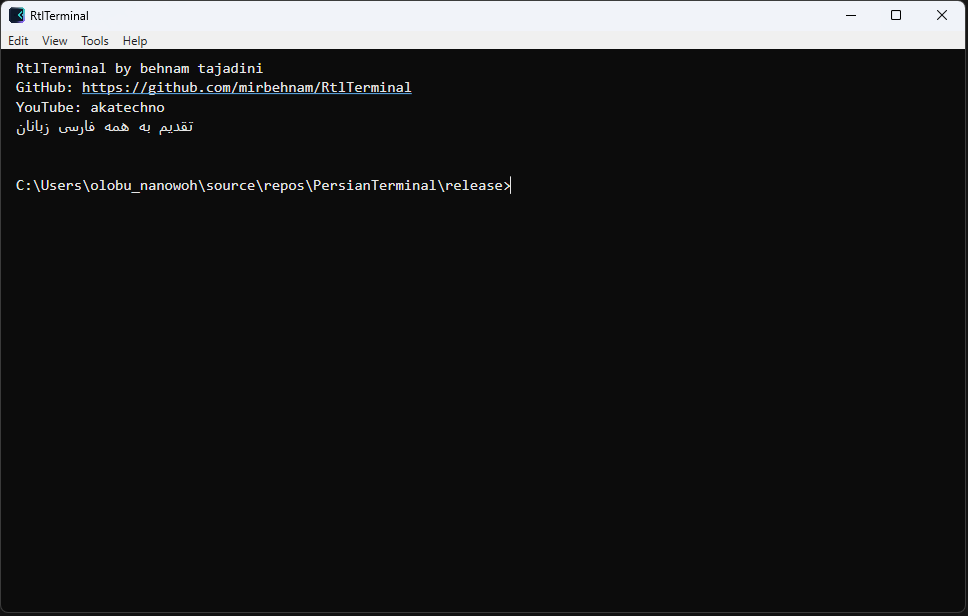
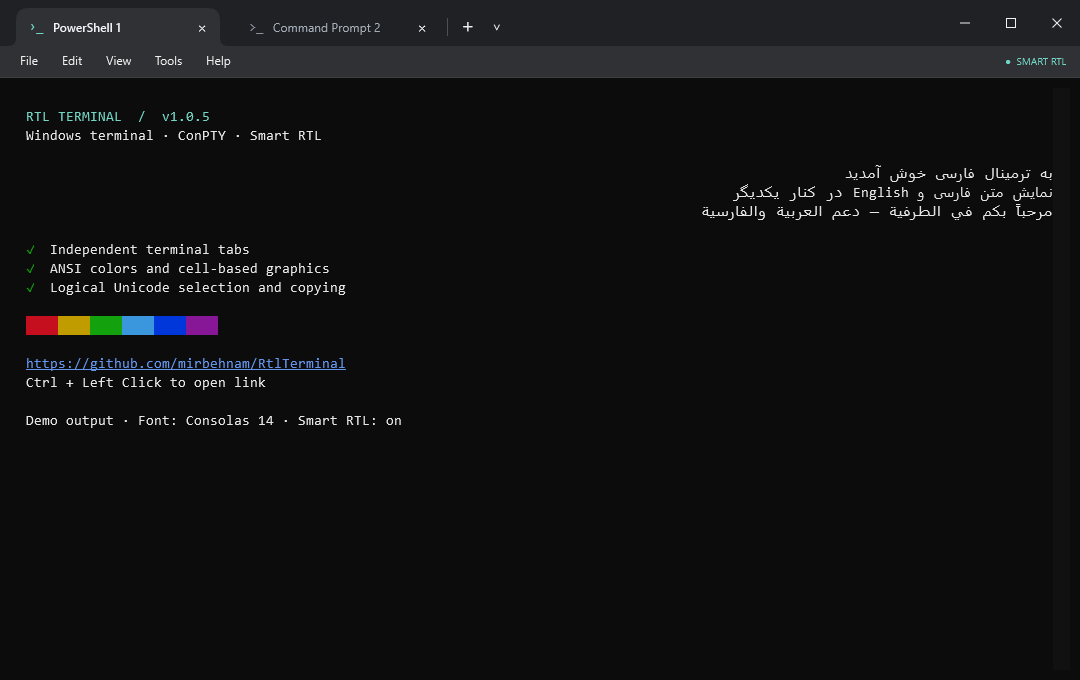
docs: showcase Codex RTL terminal experience

diff --git a/docs/index.html b/docs/index.html
@@ -17,13 +17,13 @@
   <meta property="og:title" content="Rtl Terminal — Persian and Arabic RTL Terminal for Windows">
   <meta property="og:description" content="A free Windows terminal with Smart RTL, CMD, PowerShell and WSL tabs, configurable history, session export and built-in update checks.">
   <meta property="og:url" content="https://mirbehnam.github.io/RtlTerminal/">
-  <meta property="og:image" content="https://raw.githubusercontent.com/mirbehnam/RtlTerminal/main/screenshots/rtl-terminal-main-window.png">
+  <meta property="og:image" content="https://raw.githubusercontent.com/mirbehnam/RtlTerminal/main/screenshots/main.png">
   <meta property="og:site_name" content="Rtl Terminal">
 
   <meta name="twitter:card" content="summary_large_image">
   <meta name="twitter:title" content="Rtl Terminal for Windows">
   <meta name="twitter:description" content="Persian and Arabic RTL terminal with CMD, PowerShell and WSL tabs for Windows 10 and Windows 11.">
-  <meta name="twitter:image" content="https://raw.githubusercontent.com/mirbehnam/RtlTerminal/main/screenshots/rtl-terminal-main-window.png">
+  <meta name="twitter:image" content="https://raw.githubusercontent.com/mirbehnam/RtlTerminal/main/screenshots/main.png">
 
   <script type="application/ld+json">
   {
@@ -37,7 +37,7 @@
     "softwareVersion": "1.0.5",
     "downloadUrl": "https://github.com/mirbehnam/RtlTerminal/releases/download/v1.0.5/RtlTerminal-Setup-1.0.5-x64.exe",
     "codeRepository": "https://github.com/mirbehnam/RtlTerminal",
-    "screenshot": "https://raw.githubusercontent.com/mirbehnam/RtlTerminal/main/screenshots/rtl-terminal-main-window.png",
+    "screenshot": "https://raw.githubusercontent.com/mirbehnam/RtlTerminal/main/screenshots/main.png",
     "author": {
       "@type": "Organization",
       "name": "behnamapps"
@@ -90,7 +90,7 @@
         <p class="requirements">Windows 10 version 1809+ · Windows 11 · x64 · Standalone</p>
       </div>
       <div class="hero-image">
-        <img src="https://raw.githubusercontent.com/mirbehnam/RtlTerminal/main/screenshots/rtl-terminal-main-window.png" alt="Rtl Terminal main window displaying Persian RTL text, ANSI colors, GitHub URL and Windows Command Prompt">
+        <img src="https://raw.githubusercontent.com/mirbehnam/RtlTerminal/main/screenshots/main.png" alt="Rtl Terminal running OpenAI Codex with English, Persian and Arabic output">
       </div>
     </main>
   </header>
@@ -105,7 +105,7 @@
       <article><h3>Fast agent output</h3><p>Incremental scrollback rendering keeps long-running AI agent sessions responsive.</p></article>
       <article><h3>Configurable history</h3><p>Choose a 2,000, 5,000 or 10,000-line scrollback limit from Font settings.</p></article>
       <article><h3>File and image paste</h3><p>Paste copied file paths or clipboard images directly into terminal applications and agents.</p></article>
-      <article><h3>WSL path conversion</h3><p>Windows file paths automatically become accessible <code>/mnt/&lt;drive&gt;/...</code> paths in WSL tabs.</p></article>
+      <article><h3>Keyboard and mouse</h3><p>Right-click copies selected text or pastes without a selection. Use the Context Menu key or Shift+F10 for Copy and Paste.</p></article>
       <article><h3>Links</h3><p>Detected web addresses appear in blue and open safely with Ctrl + Click.</p></article>
       <article><h3>Session tools</h3><p>Export the current session and reopen one of the ten most recent CMD directories.</p></article>
       <article><h3>Update checks</h3><p>Check official GitHub Releases manually or at startup, with per-version dismissal.</p></article>
@@ -142,8 +142,8 @@
     <p>
       برنامه از تبهای مستقل CMD، پاورشل و WSL، رنگهای ANSI، خروجیهای طولانی
       agent، لینکهای قابل کلیک، سابقهٔ قابل تنظیم، Export جلسه، مسیرهای اخیر
-      و بررسی آپدیت پشتیبانی میکند. مسیر فایلهای ویندوز در تب WSL بهصورت
-      خودکار به فرمت قابل استفاده لینوکس تبدیل میشود.
+      و بررسی آپدیت پشتیبانی میکند. راستکلیک متن انتخابشده را کپی میکند؛
+      بدون انتخاب، Paste انجام میدهد. کلید Context Menu منوی کپی و Paste را باز میکند.
     </p>
     <a class="text-link" href="https://github.com/mirbehnam/RtlTerminal/releases/download/v1.0.5/RtlTerminal-Setup-1.0.5-x64.exe">
       دانلود مستقیم فایل نصب Rtl Terminal

diff --git a/tests/RtlTerminal.RenderTests/ScreenshotCapture.cs b/tests/RtlTerminal.RenderTests/ScreenshotCapture.cs
@@ -1,0 +1,83 @@
+using System.Collections;
+using System.IO;
+using System.Reflection;
+using System.Windows;
+using System.Windows.Media;
+using System.Windows.Media.Imaging;
+using System.Windows.Threading;
+using RtlTerminal;
+
+internal static class ScreenshotCapture
+{
+    // Capture the real WPF window with deterministic demo output, without starting
+    // shells, exposing user paths, modifying settings, or contacting services.
+    public static void Run()
+    {
+        const BindingFlags flags = BindingFlags.Instance | BindingFlags.NonPublic;
+        var window = new MainWindow { Width = 1080, Height = 680 };
+        var loaded = typeof(MainWindow).GetMethod("Window_Loaded", flags)!;
+        window.Loaded -= (RoutedEventHandler)loaded.CreateDelegate(typeof(RoutedEventHandler), window);
+        var tabs = (IList)typeof(MainWindow).GetField("_tabs", flags)!.GetValue(window)!;
+        var tabType = typeof(MainWindow).GetNestedType("TerminalTab", BindingFlags.NonPublic)!;
+        var profileType = typeof(MainWindow).GetNestedType("TerminalProfile", BindingFlags.NonPublic)!;
+        tabs.Add(Activator.CreateInstance(tabType, 1, Enum.ToObject(profileType, 1), "PowerShell"));
+        tabs.Add(Activator.CreateInstance(tabType, 2, Enum.ToObject(profileType, 0), "Command Prompt"));
+        typeof(MainWindow).GetField("_activeTab", flags)!.SetValue(window, tabs[0]);
+        typeof(MainWindow).GetMethod("RebuildTabStrip", flags)!.Invoke(window, null);
+        try
+        {
+            window.Show(); window.Activate(); window.UpdateLayout();
+            var view = (TerminalView)window.FindName("TerminalTextBox");
+            view.FontFamily = new FontFamily("Consolas"); view.FontSize = 14;
+            typeof(MainWindow).GetMethod("UpdateFontMetrics", flags)!.Invoke(window, null);
+            var cell = (double)typeof(MainWindow).GetField("_cellWidth", flags)!.GetValue(window)!;
+            var line = (double)typeof(MainWindow).GetField("_lineHeight", flags)!.GetValue(window)!;
+            var columns = (int)(view.ViewportWidth / cell);
+            var rows = (int)(view.ViewportHeight / line);
+            Capture("rtl-terminal-main-window.png",
+                "\x1b[?25l\r\n\x1b[38;2;114;214;197m" +
+                "  RTL TERMINAL  /  v1.0.5\x1b[0m\r\n" +
+                "  Windows terminal · ConPTY · Smart RTL\r\n\r\n" +
+                "به ترمینال فارسی خوش آمدید\r\n" +
+                "نمایش متن فارسی و English در کنار یکدیگر\r\n" +
+                "مرحباً بكم في الطرفية — دعم العربية والفارسية\r\n\r\n" +
+                "  \x1b[32m✓\x1b[0m  Independent terminal tabs\r\n" +
+                "  \x1b[32m✓\x1b[0m  ANSI colors and cell-based graphics\r\n" +
+                "  \x1b[32m✓\x1b[0m  Logical Unicode selection and copying\r\n\r\n" +
+                "  \x1b[31m████\x1b[33m████\x1b[32m████\x1b[36m████\x1b[34m████\x1b[35m████\x1b[0m\r\n\r\n" +
+                "  https://github.com/mirbehnam/RtlTerminal\r\n" +
+                "  Ctrl + Left Click to open link\r\n\r\n" +
+                "  Demo output · Font: Consolas 14 · Smart RTL: on");
+            Capture("rtl-terminal-persian-rtl-cli.png",
+                "\x1b[?25l\r\n\x1b[38;2;114;214;197m  SMART RTL  /  Mixed-language output\x1b[0m\r\n\r\n" +
+                "این یک نمونهٔ نمایشی از خروجی فارسی ترمینال است\r\n\r\n" +
+                "وضعیت پروژه: آماده برای اجرا\r\n" +
+                "فایل README.md با موفقیت ذخیره شد\r\n" +
+                "نتیجه build: موفق — نسخه 1.0.5\r\n\r\n" +
+                "العربية والفارسية مع English والأرقام 123\r\n\r\n" +
+                "  \x1b[32mPASS\x1b[0m  Persian and Arabic text shaping\r\n" +
+                "  \x1b[32mPASS\x1b[0m  ANSI colors and mixed-direction text\r\n\r\n" +
+                "  ┌──────────────────────────────────────────────┐\r\n" +
+                "  │  Copy selection     Right-click              │\r\n" +
+                "  │  Paste              Right-click (no selection)│\r\n" +
+                "  │  Context menu       Apps key / Shift+F10     │\r\n" +
+                "  └──────────────────────────────────────────────┘\r\n\r\n" +
+                "  Demo output · https://github.com/mirbehnam/RtlTerminal");
+
+            void Capture(string name, string output)
+            {
+                view.Clear();
+                view.Present(new TerminalBuffer(columns, rows).Process(output), true, cell, line, false);
+                window.UpdateLayout();
+                window.Dispatcher.Invoke(() => { }, DispatcherPriority.ContextIdle);
+                var bitmap = new RenderTargetBitmap(1080, 680, 96, 96, PixelFormats.Pbgra32);
+                bitmap.Render(window);
+                Directory.CreateDirectory("screenshots");
+                var encoder = new PngBitmapEncoder(); encoder.Frames.Add(BitmapFrame.Create(bitmap));
+                using var stream = File.Create(Path.Combine("screenshots", name)); encoder.Save(stream);
+                Console.WriteLine($"Captured screenshots/{name}");
+            }
+        }
+        finally { window.Close(); }
+    }
+}

diff --git a/tests/RtlTerminal.RenderTests/Program.cs b/tests/RtlTerminal.RenderTests/Program.cs
@@ -10,6 +10,11 @@ internal static class Program
     [STAThread]
     private static void Main()
     {
+        if (Environment.GetCommandLineArgs().Contains("--screenshots"))
+        {
+            ScreenshotCapture.Run();
+            return;
+        }
         if (Environment.GetCommandLineArgs().Contains("--window-smoke"))
         {
             WindowStateSmoke.Run();

diff --git a/README.md b/README.md
@@ -19,17 +19,17 @@
 
   **Latest Windows 10/11 installer — no separate .NET installation required**
 
-  ### [⬇ دانلود Rtl Terminal Setup v1.0.5](https://github.com/mirbehnam/RtlTerminal/releases/download/v1.0.5/RtlTerminal-Setup-1.0.5-x64.exe)
+  ### [⬇ دریافت آخرین نسخهٔ منتشرشده](https://github.com/mirbehnam/RtlTerminal/releases/latest)
 
-  ### [⬇ Download Rtl Terminal Setup v1.0.5](https://github.com/mirbehnam/RtlTerminal/releases/download/v1.0.5/RtlTerminal-Setup-1.0.5-x64.exe)
+  ### [⬇ Get the latest published release](https://github.com/mirbehnam/RtlTerminal/releases/latest)
 
   [وبسایت رسمی · Official website](https://mirbehnam.github.io/RtlTerminal/) · [مشاهده همه نسخهها · View all releases](https://github.com/mirbehnam/RtlTerminal/releases)
 
   <br>
 
-  <img src="screenshots/rtl-terminal-main-window.png"
+  <img src="screenshots/main.png"
        width="900"
-       alt="Rtl Terminal main window on Windows with Persian RTL text, ANSI colors, GitHub link and Command Prompt">
+       alt="Rtl Terminal running OpenAI Codex with English, Persian and Arabic output">
 
   **نمای اصلی Rtl Terminal در ویندوز · Rtl Terminal main window on Windows**
 </div>
@@ -46,6 +46,9 @@ Rtl Terminal uses the Windows ConPTY API and works with command-line environment
 
 ### Features
 
+- Custom WPF cell renderer with cached visible rows and seamless block/box graphics.
+- Chrome-style tabs, adjacent new-tab button, dark menus and vector window controls.
+- Default terminal font size of 14; existing saved font preferences are retained.
 - Apply Smart RTL per line while keeping English fragments, numbers and punctuation in their correct direction.
 - Display Persian, Arabic, English and mixed Unicode terminal output.
 - Support ANSI standard colors, bright colors, dim text, 256 colors and RGB colors.
@@ -58,7 +61,7 @@ Rtl Terminal uses the Windows ConPTY API and works with command-line environment
 - Detect `http://`, `https://` and `www.` links and open them with `Ctrl + Click`.
 - Copy selected text with `Ctrl+C` or `Ctrl+Shift+C`.
 - Paste text, copied file paths and clipboard images with `Ctrl+V`, `Ctrl+Shift+V` or right-click.
-- Convert copied Windows paths to `/mnt/<drive>/...` automatically inside WSL tabs.
+- Clipboard paths retain their Windows form; convert paths manually when needed in WSL.
 - Send `Ctrl+C` as an interrupt when no text is selected.
 - Select any installed Windows font, font size, weight and italic style.
 - Render ANSI bold and italic styles produced by terminal applications.
@@ -75,9 +78,18 @@ Rtl Terminal uses the Windows ConPTY API and works with command-line environment
 
 ### Screenshots
 
+#### Main application — OpenAI Codex
+
+The main screenshot shows a real Codex session rendering English, Persian and Arabic
+inside Rtl Terminal with Smart RTL enabled.
+
+![Rtl Terminal running OpenAI Codex with English, Persian and Arabic text](screenshots/main.png)
+
+#### Renderer test scenarios
+
 ![Rtl Terminal Windows terminal emulator with Persian and Arabic RTL support](screenshots/rtl-terminal-main-window.png)
 
-![Rtl Terminal displaying Persian RTL interactive CLI output](screenshots/rtl-terminal-persian-rtl-cli.png)
+![Rtl Terminal displaying Persian and Arabic mixed-direction demo output](screenshots/rtl-terminal-persian-rtl-cli.png)
 
 ### System Requirements
 
@@ -177,7 +189,11 @@ The portable executable and installer include the self-contained .NET runtime an
 | Paste clipboard text | `Ctrl+V` or `Ctrl+Shift+V` |
 | Paste copied files or images as paths | `Ctrl+V` or `Ctrl+Shift+V` |
 | Paste with mouse | Right-click when no text is selected |
-| Create a Command Prompt tab | `Ctrl+Shift+T` |
+| Copy with mouse | Right-click selected text; the selection clears after copying |
+| Open Copy/Paste menu | Context Menu (Apps) key or `Shift+F10`; opens after key release |
+| Select all retained text | `Ctrl+Shift+A` |
+| Bypass application mouse capture | Hold `Shift` while selecting or right-clicking |
+| Create a tab using the default profile | `Ctrl+Shift+T` |
 | Switch to the next or previous tab | `Ctrl+Tab` or `Ctrl+Shift+Tab` |
 | Close the active tab | `Ctrl+W` |
 | Interrupt the active command | `Ctrl+C` when no text is selected |
@@ -219,7 +235,28 @@ On Windows 11, the current registry integration may appear under **Show more opt
 - The current terminal backend requires Windows ConPTY.
 - Windows 7 is not supported.
 - The Windows 11 modern context menu is not directly extended by the current registry integration.
-- Terminal rendering is implemented with WPF rather than the GPU renderer used by Windows Terminal.
+- The custom WPF renderer is not the Windows Terminal rendering engine; CLI/TUI compatibility still needs application-specific testing.
+- Color emoji, flags and font fallback depend on the Windows text renderer and installed fonts.
+- Smart RTL uses directional spans, not a complete new Unicode bidi implementation; full-screen layouts preserve the terminal grid.
+
+### Validation and screenshot capture
+
+```powershell
+dotnet build RtlTerminal.sln -c Release
+dotnet run --project tests/RtlTerminal.BufferTests -c Release
+dotnet run --project tests/RtlTerminal.RenderTests -c Release
+dotnet run --project tests/RtlTerminal.RenderTests -c Release -- --window-smoke
+```
+
+The optional `--window-smoke` check briefly opens a shell-free test window and
+checks context-menu key down/up, maximized work-area bounds and minimize/restore.
+To regenerate the two renderer-test screenshots with deterministic demo content:
+
+```powershell
+dotnet run --project tests/RtlTerminal.RenderTests -c Release -- --screenshots
+```
+
+See [renderer architecture and verification notes](docs/renderer.md).
 
 ### Project Information
 
@@ -250,7 +287,7 @@ No license file is currently included. Add a `LICENSE` file before accepting ext
 
 ### ترمینال راستبهچپ برای ویندوز
 
-**Rtl Terminal** یک شبیهساز ترمینال متنباز برای ویندوز است که توسط برند **behnamapps** برای کاربران فارسیزبان، عربیزبان و زبانهای راستبهچپ ساخته شده است. این برنامه امکان تغییر کل محیط ترمینال بین حالت چپبهراست و راستبهچپ را فراهم میکند و در کنار آن از رنگهای ANSI، برنامههای تعاملی خط فرمان، نوارهای پیشرفت، لینکها و متن Unicode پشتیبانی میکند.
+**Rtl Terminal** یک شبیهساز ترمینال متنباز برای ویندوز است که توسط برند **behnamapps** برای کاربران فارسیزبان، عربیزبان و زبانهای راستبهچپ ساخته شده است. این برنامه با Smart RTL جهت متن فارسی و ترکیبی را خودکار مدیریت میکند و شبکهٔ برنامههای تمامصفحه را حفظ میکند و در کنار آن از رنگهای ANSI، برنامههای تعاملی خط فرمان، نوارهای پیشرفت، لینکها و متن Unicode پشتیبانی میکند.
 
 این برنامه با استفاده از Windows ConPTY میتواند محیطهایی مانند Command Prompt، PowerShell، WSL، Bash، ابزارهای توسعه، package managerها و برنامههای تعاملی ترمینال را اجرا کند.
 
@@ -268,7 +305,7 @@ No license file is currently included. Add a `LICENSE` file before accepting ext
 - تشخیص لینک و بازکردن آن با `Ctrl + Click`
 - کپی متن با `Ctrl+C` یا `Ctrl+Shift+C`
 - Paste متن، مسیر فایلهای کپیشده و تصویر Clipboard با `Ctrl+V`، `Ctrl+Shift+V` یا راستکلیک
-- تبدیل خودکار مسیرهای ویندوز به فرمت `/mnt/<drive>/...` در تبهای WSL
+- حفظ مسیرهای ویندوز هنگام Paste؛ در WSL تبدیل مسیر در صورت نیاز دستی است
 - ارسال Interrupt با `Ctrl+C` در صورتی که متنی انتخاب نشده باشد
 - انتخاب همه فونتهای نصبشده ویندوز
 - تنظیم اندازه، ضخامت و حالت ایتالیک فونت
@@ -345,7 +382,11 @@ git push origin v1.0.5
 | چسباندن متن | `Ctrl+V` یا `Ctrl+Shift+V` |
 | چسباندن فایل یا تصویر کپیشده بهصورت مسیر | `Ctrl+V` یا `Ctrl+Shift+V` |
 | چسباندن با ماوس | راستکلیک در صورتی که متنی انتخاب نشده باشد |
-| ساخت تب Command Prompt | `Ctrl+Shift+T` |
+| کپی با ماوس | راستکلیک روی متن انتخابشده؛ سپس انتخاب پاک میشود |
+| بازکردن منوی کپی و Paste | کلید Context Menu یا `Shift+F10`؛ پس از رهاکردن کلید |
+| انتخاب همهٔ متن | `Ctrl+Shift+A` |
+| انتخاب متن در برنامههای دریافتکنندهٔ ماوس | نگهداشتن `Shift` |
+| ساخت تب با پروفایل پیشفرض | `Ctrl+Shift+T` |
 | جابهجایی بین تبها | `Ctrl+Tab` یا `Ctrl+Shift+Tab` |
 | بستن تب فعال | `Ctrl+W` |
 | متوقفکردن فرمان جاری | `Ctrl+C` در صورتی که متنی انتخاب نشده باشد |
@@ -370,7 +411,7 @@ git push origin v1.0.5
 
 ### طرفية تدعم العربية واتجاه RTL لنظام Windows
 
-**Rtl Terminal** هو محاكي طرفية مفتوح المصدر لنظام Windows، طوّرته علامة **behnamapps** لمستخدمي اللغة العربية والفارسية واللغات التي تُكتب من اليمين إلى اليسار. يتيح البرنامج تحويل واجهة الطرفية بالكامل بين اتجاهي LTR وRTL مع دعم ألوان ANSI والنصوص Unicode والروابط وأشرطة التقدم وتطبيقات سطر الأوامر التفاعلية.
+**Rtl Terminal** هو محاكي طرفية مفتوح المصدر لنظام Windows، طوّرته علامة **behnamapps** لمستخدمي اللغة العربية والفارسية واللغات التي تُكتب من اليمين إلى اليسار. يدير البرنامج اتجاه النص العربي والفارسي والمختلط باستخدام Smart RTL مع الحفاظ على شبكة التطبيقات بملء الشاشة مع دعم ألوان ANSI والنصوص Unicode والروابط وأشرطة التقدم وتطبيقات سطر الأوامر التفاعلية.
 
 يعتمد البرنامج على Windows ConPTY، ويمكنه تشغيل Command Prompt وPowerShell وWSL وBash وأدوات المطورين ومديري الحزم وتطبيقات CLI وTUI.
 
@@ -388,7 +429,7 @@ git push origin v1.0.5
 - اكتشاف الروابط وفتحها باستخدام `Ctrl + Click`
 - نسخ النص باستخدام `Ctrl+C` أو `Ctrl+Shift+C`
 - لصق النص ومسارات الملفات المنسوخة وصور Clipboard باستخدام `Ctrl+V` أو `Ctrl+Shift+V` أو زر الفأرة الأيمن
-- تحويل مسارات Windows تلقائياً إلى `/mnt/<drive>/...` داخل علامات WSL
+- تبقى المسارات الملصقة بصيغة Windows؛ حوّلها يدوياً عند الحاجة في WSL
 - إرسال أمر المقاطعة عند الضغط على `Ctrl+C` دون تحديد نص
 - اختيار جميع الخطوط المثبتة في Windows
 - تخصيص حجم الخط ووزنه ونمطه المائل
@@ -465,7 +506,11 @@ git push origin v1.0.5
 | لصق النص | `Ctrl+V` أو `Ctrl+Shift+V` |
 | لصق ملف أو صورة منسوخة كمسار | `Ctrl+V` أو `Ctrl+Shift+V` |
 | اللصق بالفأرة | زر الفأرة الأيمن عند عدم تحديد نص |
-| إنشاء علامة Command Prompt | `Ctrl+Shift+T` |
+| النسخ بالفأرة | النقر الأيمن على النص المحدد ثم إلغاء التحديد |
+| فتح قائمة النسخ واللصق | مفتاح Context Menu أو `Shift+F10` بعد تحرير المفتاح |
+| تحديد كل النص | `Ctrl+Shift+A` |
+| تجاوز التقاط الفأرة | اضغط باستمرار على `Shift` |
+| إنشاء علامة بالبيئة الافتراضية | `Ctrl+Shift+T` |
 | التنقل بين علامات التبويب | `Ctrl+Tab` أو `Ctrl+Shift+Tab` |
 | إغلاق علامة التبويب النشطة | `Ctrl+W` |
 | مقاطعة الأمر الحالي | `Ctrl+C` عند عدم تحديد نص |
